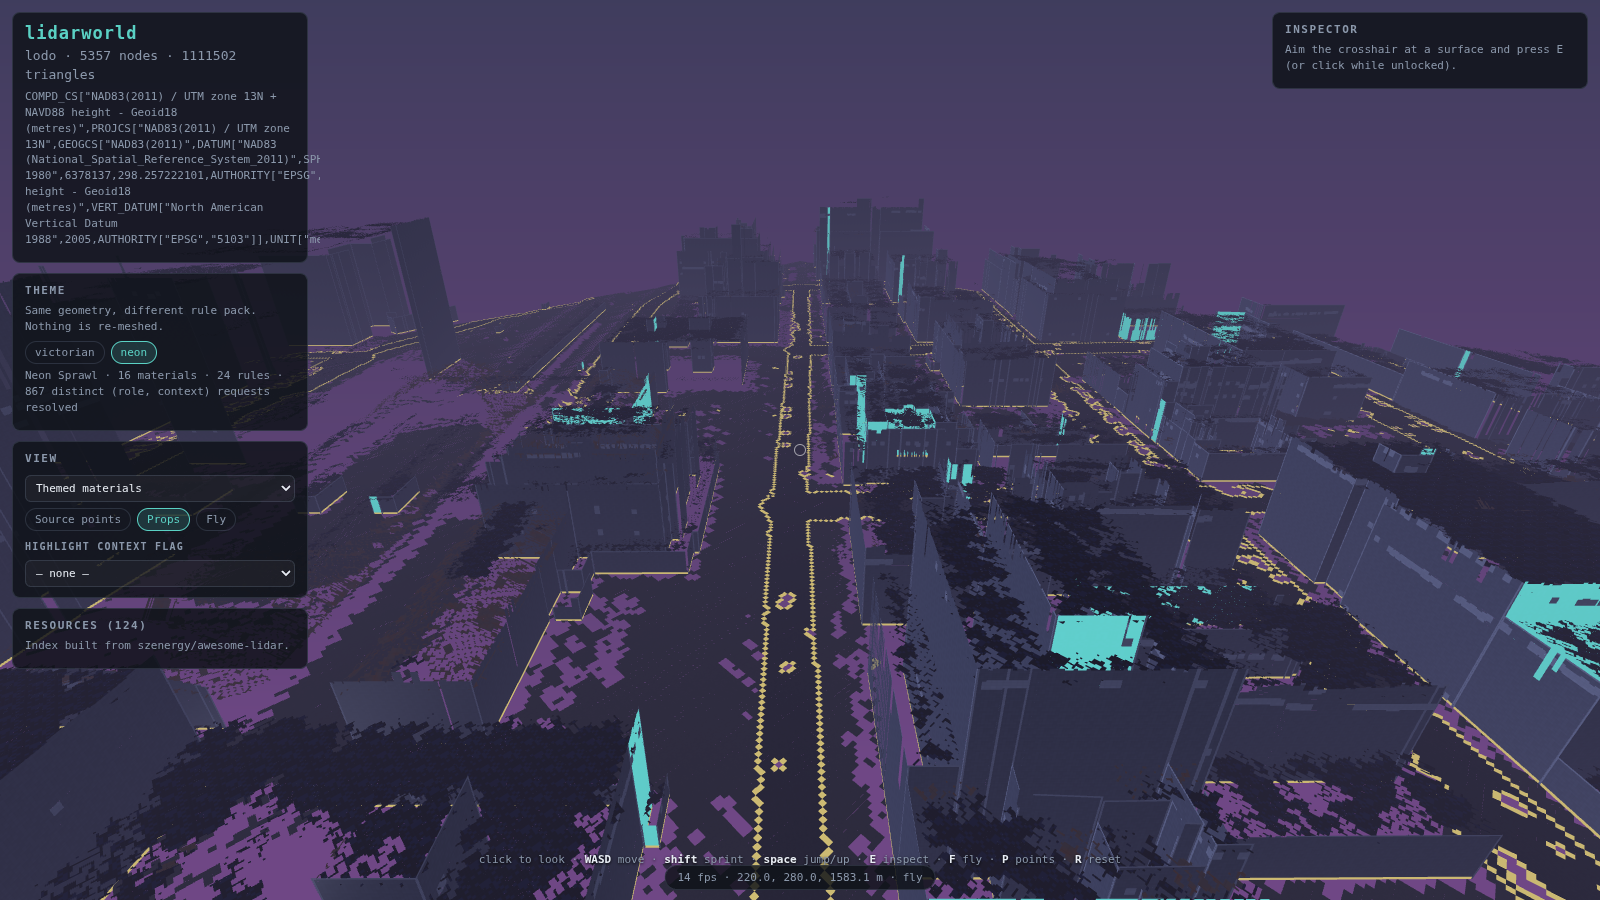
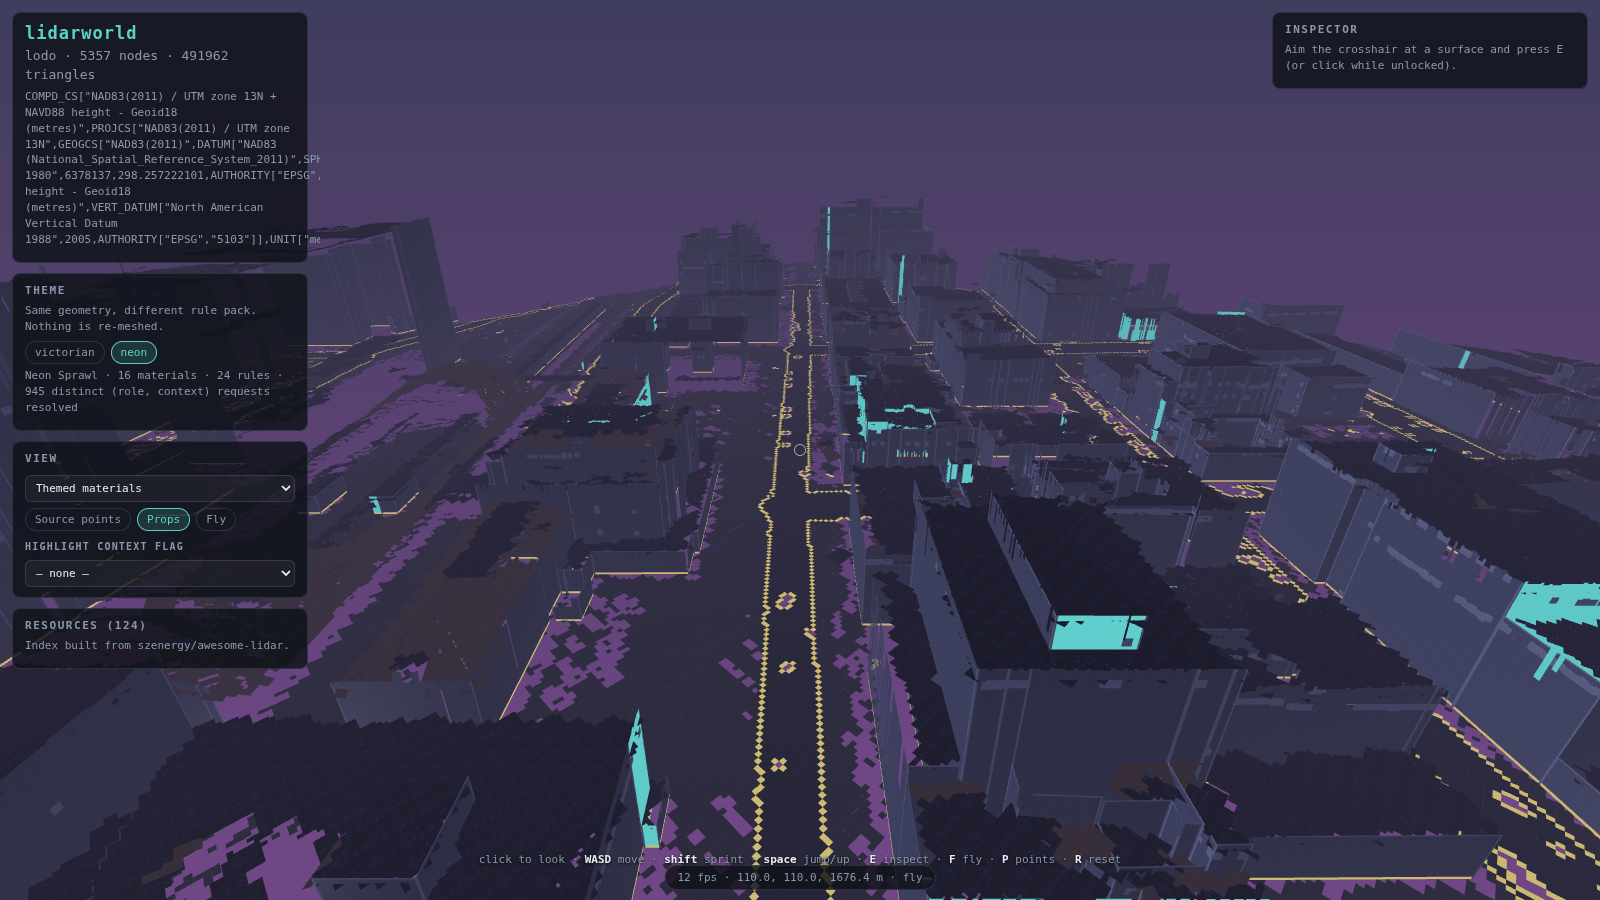
Fix the speckled roofs: size a roof's lattice to what its returns can fill (#28)
0.25 m is a facade number. Airborne LiDAR samples a roof at 3.6 pts/m2, so a
0.25 m cell holds 0.22 returns and 81% of roof cells were empty; holes that
reach a patch border are never filled, and at that emptiness they percolate to
the border nearly everywhere. Roofs were 62% solid.

Treating returns as Poisson predicts the measured 19/57/94% occupancy at
0.25/0.5/0.8 m to within a point or two, so invert it and choose the cell that
hits a target occupancy. Correct the density estimator's own bias with the same
relation, which holds 59-60% occupancy across 0.5 to 20 pts/m2.

On the LoDo block: roofs 21% -> 51% solid, triangles 1,111,502 -> 491,962,
bundle 123.6 -> 61.6 MB, epistemic hybrid 804 -> 1,514 against inferred
4,553 -> 3,843. The halved triangle count is the speckle leaving; the epistemic
shift is more surface backed by measurement.

Roof fill is now reported by the lattice stage, because speckle and solid
surface carry the same tile count and the tile count never showed it.

diff --git a/src/lidarworld/pipeline.py b/src/lidarworld/pipeline.py
@@ -56,6 +56,16 @@ class Config:
     min_plane_voxels: int = 12
     #: facade tile size -- this is the resolution of the context mask
     tile: float = 0.25
+    #: Size a roof's lattice from its own sampling density instead of reusing
+    #: the facade cell. Airborne returns cannot fill a 0.25 m roof cell, and the
+    #: holes that leaves are the speckle. Off restores the single-cell
+    #: behaviour, which is what a dense terrestrial scan wants.
+    adaptive_roof_tile: bool = True
+    #: Raw cell occupancy to aim for before closing and hole filling run.
+    roof_tile_occupancy: float = 0.6
+    #: Never coarsen past this, however thin the returns. A roof edge quantised
+    #: to much more than a metre reads as blocky from the air.
+    max_roof_tile: float = 1.0
     #: Fuse patches that are the same physical surface before tiling them.
     #: Without this one facade arrives as several ragged patches.
     merge_coplanar: bool = True
@@ -299,8 +309,18 @@ def compile_world(paths, config: Config | None = None, *, adapter: str | None = 
                 continue
             pts = cloud.xyz[patch.point_idx]
             ground_z = float(np.percentile(pts[:, 2], 2))
+            # Facades keep the configured cell: they are densely sampled along
+            # a street and the context mask is what earns the resolution. Roofs
+            # are sampled from an aircraft at a few points per metre, so the
+            # same cell leaves most of them empty and the surface comes out
+            # speckled. Size their lattice from what the returns can fill.
+            cell = config.tile
+            if config.adaptive_roof_tile and patch.role.startswith("surface.roof"):
+                cell = lattice_stage.sampling_cell(
+                    patch, pts, floor=config.tile, ceiling=config.max_roof_tile,
+                    target=config.roof_tile_occupancy)
             lat = lattice_stage.build(
-                patch, pts, cell=config.tile, ground_z=ground_z,
+                patch, pts, cell=cell, ground_z=ground_z,
                 extend_to_ground=config.extend_walls_to_ground,
                 # Openings are a facade phenomenon: glass returns nothing at
                 # 905 nm, so an enclosed hole in a wall's returns is a window.
@@ -313,7 +333,24 @@ def compile_world(paths, config: Config | None = None, *, adapter: str | None = 
                 max_opening_area=config.max_opening_area)
             lattices[patch.id] = lat
             total_openings += len(lat.openings)
+        # How much of each roof's own lattice came out solid. This is the
+        # speckle, as a number: holes that reach a patch border are never
+        # filled, so a roof sampled too finely reports a low fill and looks
+        # like lace. Kept in the record because it is invisible in the tile
+        # count -- speckle and solid surface can carry the same total.
+        roof_fill = [l.solid_count / max(l.occupancy.size, 1)
+                     for p in patches if p.role.startswith("surface.roof")
+                     for l in (lattices.get(p.id),) if l is not None]
         rec.notes = f"{sum(l.solid_count for l in lattices.values()):,} tiles, {total_openings} openings"
+        if roof_fill:
+            mean_fill = float(np.mean(roof_fill))
+            cells = [lattices[p.id].cell for p in patches
+                     if p.role.startswith("surface.roof") and p.id in lattices]
+            rec.params["roofs"] = {"count": len(roof_fill),
+                                   "mean_fill": round(mean_fill, 3),
+                                   "median_cell_m": round(float(np.median(cells)), 2)}
+            rec.notes += (f"; roofs {mean_fill:.0%} solid at a median "
+                          f"{np.median(cells):.2f} m cell")
         if free is not None and (gated_cells or gated_patches):
             rec.params["free_space"] = {"cells_cleared": gated_cells,
                                         "patches_rejected": len(gated_patches),

diff --git a/tests/test_roof_lattice.py b/tests/test_roof_lattice.py
@@ -1,0 +1,91 @@
+"""Sizing a roof's lattice to what its returns can actually fill.
+
+The speckle was not a meshing bug. It was a 0.25 m cell -- a facade number --
+applied to a surface sampled at a few points per metre from an aircraft, so
+81% of roof cells were empty and the holes reached the patch border, where
+nothing fills them.
+"""
+import math
+
+import numpy as np
+
+from lidarworld.reconstruct import lattice
+
+
+class FlatPatch:
+    """Just enough patch to project points into a plane."""
+
+    def project(self, xyz):
+        return np.asarray(xyz)[:, :2]
+
+
+def _poisson(density, size, seed):
+    rng = np.random.default_rng(seed)
+    n = rng.poisson(density * size * size)
+    return np.column_stack([rng.uniform(0, size, n), rng.uniform(0, size, n),
+                            np.zeros(n)])
+
+
+def test_cell_scales_with_the_inverse_root_of_density():
+    """Four times the returns should halve the cell: the sampling length
+    scale is 1/sqrt(density), and the cell has to follow it."""
+    patch = FlatPatch()
+    sparse = lattice.sampling_cell(patch, _poisson(4.0, 60, 1), floor=0.01, ceiling=99)
+    dense = lattice.sampling_cell(patch, _poisson(16.0, 60, 2), floor=0.01, ceiling=99)
+    assert 1.7 < sparse / dense < 2.3, (sparse, dense)
+
+
+def test_the_chosen_cell_hits_the_occupancy_it_aimed_for():
+    """The Poisson model is the whole justification, so check it predicts."""
+    patch = FlatPatch()
+    for density in (1.0, 3.6, 12.0):
+        xyz = _poisson(density, 80, int(density * 10))
+        cell = lattice.sampling_cell(patch, xyz, floor=0.01, ceiling=99, target=0.6)
+        iu = (xyz[:, 0] / cell).astype(int)
+        iv = (xyz[:, 1] / cell).astype(int)
+        occupied = len(set(zip(iu.tolist(), iv.tolist())))
+        total = math.ceil(80 / cell) ** 2
+        assert 0.5 < occupied / total < 0.7, (density, cell, occupied / total)
+
+
+def test_bounds_are_respected():
+    patch = FlatPatch()
+    thin = _poisson(0.05, 60, 3)
+    assert lattice.sampling_cell(patch, thin, floor=0.25, ceiling=1.0) == 1.0
+    thick = _poisson(400.0, 20, 4)
+    assert lattice.sampling_cell(patch, thick, floor=0.25, ceiling=1.0) == 0.25
+
+
+def test_a_patch_with_almost_no_returns_does_not_divide_by_zero():
+    patch = FlatPatch()
+    for n in (0, 1, 3):
+        cell = lattice.sampling_cell(patch, np.zeros((n, 3)), floor=0.25, ceiling=1.0)
+        assert cell == 1.0
+
+
+def test_density_uses_occupied_area_not_the_bounding_box():
+    """An L-shaped roof fills half its box. Measuring density over the box
+    halves it, and a halved density coarsens the cell by root two for no
+    reason -- which is the blur this function exists to avoid."""
+    patch = FlatPatch()
+    full = _poisson(4.0, 60, 5)
+    ell = full[(full[:, 0] < 30) | (full[:, 1] < 30)]
+    assert 0.6 < len(ell) / len(full) < 0.9, "expected a genuinely L-shaped subset"
+    a = lattice.sampling_cell(patch, full, floor=0.01, ceiling=99)
+    b = lattice.sampling_cell(patch, ell, floor=0.01, ceiling=99)
+    assert abs(a - b) / a < 0.1, (a, b)
+
+
+def test_a_sparse_roof_lattice_is_mostly_holes_at_the_facade_cell():
+    """The measurement the fix is built on, as a test: at 0.25 m an airborne
+    roof is ~20% occupied, and at the chosen cell it is ~60%."""
+    patch = FlatPatch()
+    xyz = _poisson(3.6, 80, 7)
+
+    def occupancy(cell):
+        iu = (xyz[:, 0] / cell).astype(int)
+        iv = (xyz[:, 1] / cell).astype(int)
+        return len(set(zip(iu.tolist(), iv.tolist()))) / math.ceil(80 / cell) ** 2
+
+    assert occupancy(0.25) < 0.3
+    assert occupancy(lattice.sampling_cell(patch, xyz, floor=0.25, ceiling=1.0)) > 0.5

diff --git a/src/lidarworld/reconstruct/lattice.py b/src/lidarworld/reconstruct/lattice.py
@@ -16,6 +16,7 @@ back. Rather than patching that hole, we keep it -- it is real geometry.
 """
 from __future__ import annotations
 
+import math
 from dataclasses import dataclass, field
 
 import numpy as np
@@ -148,6 +149,70 @@ def distance_to_false(mask: np.ndarray, limit: int = 15) -> np.ndarray:
         dist[current] = d
         current = _erode(current, 1)
     return dist
+
+
+def sampling_cell(patch, xyz: np.ndarray, *, floor: float, ceiling: float = 1.0,
+                  target: float = 0.6, probe: float = 1.0) -> float:
+    """A lattice cell this patch's returns can actually fill.
+
+    0.25 m is a facade number. A facade is scanned nearly edge-on but from
+    thousands of pulses along a street, and it wants fine cells because the
+    context mask is what puts quoins on corners and trim round windows. A roof
+    seen from an aircraft is the opposite: 3.6 pts/m2 over the LoDo block, so a
+    0.25 m cell holds 0.22 returns and **81% of roof cells are empty**. Morphology
+    recovers some, but a hole that reaches the patch border is never filled, and
+    at that emptiness the holes percolate to the border nearly everywhere. That
+    is the speckle -- the roofs were 62% solid.
+
+    Treating returns as Poisson over the patch, a cell of size c holds d*c^2 of
+    them and is occupied with probability 1 - exp(-d*c^2). Invert it for the
+    occupancy we want:
+
+        c = sqrt(-ln(1 - target) / d)
+
+    The model earns its place by predicting the measurement: 20 / 59 / 90 per
+    cent occupancy at 0.25 / 0.5 / 0.8 m against 19 / 57 / 94 observed.
+
+    `target` is 0.6 rather than something near 1 because closing and enclosed-
+    hole filling run afterwards and finish the job; asking the raw returns for a
+    solid surface would blur the roof outline for no gain.
+
+    Density is measured over the area the patch *occupies*, counted on a coarse
+    probe grid, not over its bounding box. A roof is rarely a rectangle, and a
+    box overestimates the area, underestimates the density, and blurs the
+    lattice -- which is the failure this function exists to avoid.
+
+    But counting only occupied probe cells biases the other way: the probe grid
+    has gaps of its own, so dividing by occupied area alone overstates density,
+    badly when the returns are thin. At 1 pt/m2 a 1 m probe is 63% occupied and
+    the naive estimate reads 1.58. The same Poisson relation fixes it -- the
+    occupied cells are q = 1 - exp(-d * probe^2) of the true area -- which makes
+    the estimate the fixed point of
+
+        d = d_naive * (1 - exp(-d * probe^2))
+
+    a few iterations from d_naive. It converges quickly, changes nothing where
+    the probe is nearly full (3.6 pts/m2 moves 3.69 -> 3.59) and pulls the
+    sparse case back where it belongs (1.58 -> 1.01).
+    """
+    uv = patch.project(xyz)
+    if len(uv) < 4:
+        return float(ceiling)
+    occupied = len(np.unique(np.floor(uv / probe).astype(np.int64), axis=0))
+    naive = len(uv) / max(occupied * probe * probe, 1e-9)
+    if naive <= 0:
+        return float(ceiling)
+    density = naive
+    for _ in range(32):
+        updated = naive * -math.expm1(-density * probe * probe)
+        if abs(updated - density) < 1e-4 * max(density, 1.0):
+            density = updated
+            break
+        density = updated
+    if density <= 0:
+        return float(ceiling)
+    cell = math.sqrt(-math.log(1.0 - target) / density)
+    return float(np.clip(cell, floor, ceiling))
 
 
 def build(patch, xyz: np.ndarray, *, cell: float = 0.25, close_radius: int = 1,

diff --git a/src/lidarworld/cli.py b/src/lidarworld/cli.py
@@ -89,6 +89,7 @@ def _cmd_compile(args) -> int:
         name=args.name or Path(args.inputs[0]).stem,
         terrain_cell=args.terrain_cell,
         tile=args.tile,
+        adaptive_roof_tile=not args.uniform_roof_tile,
         plane_voxel=args.plane_voxel,
         decimate=args.decimate,
         bbox=bbox,
@@ -427,6 +428,11 @@ def build_parser() -> argparse.ArgumentParser:
                         "paris_lille_3d, semantickitti, nuscenes, asprs). Ranges collide "
                         "between datasets, so say which one rather than letting it guess.")
     c.add_argument("--tile", type=float, default=0.25, help="facade tile size in metres")
+    c.add_argument("--uniform-roof-tile", action="store_true",
+                   help="give roofs the facade tile size instead of sizing "
+                        "their lattice from their own sampling density. "
+                        "Airborne roofs come out speckled; a dense terrestrial "
+                        "scan does not need the adaptation.")
     c.add_argument("--terrain-cell", type=float, default=1.0)
     c.add_argument("--plane-voxel", type=float, default=0.6)
     c.add_argument("--decimate", type=int, default=1)
